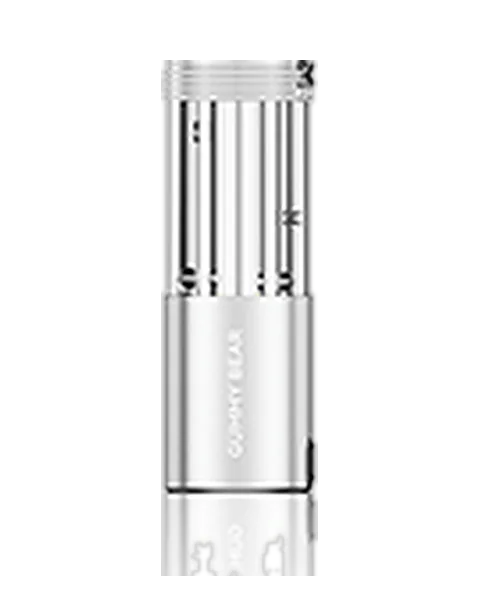
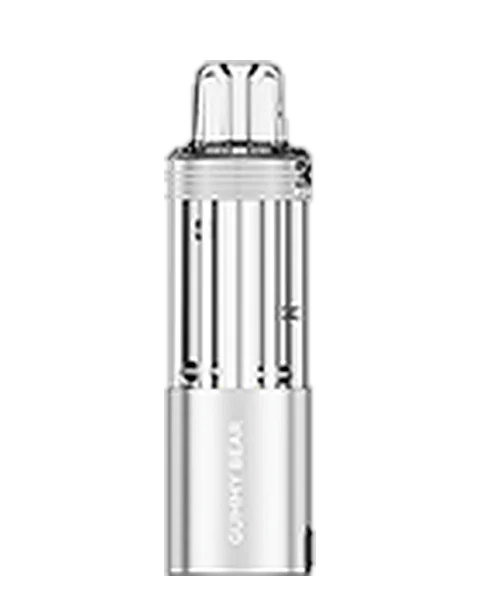
Spread sold-out Foger flavors through the shelf, fix Gummy Bear photo, real photos on menu tiles
- Sold-out flavors stay in their family with at least two in-stock flavors between them (with a test).
- Gummy Bear pod cutout keeps the clear mouthpiece.
- Vape menu tiles use real product photos; Foger Pods tile shows three real pods.
- Pages are served with no-cache so phones always load the newest site.

Claude-Session: https://claude.ai/code/session_01WZwz3KCcSpT4pd6DPVtWJA

Changed region(s): [[0.3125, 0.09, 0.6875, 0.96]]

diff --git a/src/data/fogerFlavors.ts b/src/data/fogerFlavors.ts
@@ -82,7 +82,11 @@ export const FOGER_FLAVORS: FogerFlavor[] = [
   { name: "Coconut Cupcake", slug: 'coconut-cupcake', status: 'out', hue: 214, saturation: 72 },
 ];
 
-/** Display order: flavors grouped by family, sold-out flavors kept inside their family. */
+/**
+ * Display order: flavors grouped by family. Sold-out flavors sit inside their family,
+ * spread out so at least two in-stock flavors are between any two sold-out ones.
+ * Sold-out flavors with no family of their own are tucked in near something similar.
+ */
 export const FOGER_ORDER: string[] = [
   // Mint
   'Cool Mint', 'Gum Mint', 'Miami Mint',
@@ -90,27 +94,23 @@ export const FOGER_ORDER: string[] = [
   'Sour Apple Ice', 'Juicy Peach Ice', 'Strawberry Ice', 'Watermelon Ice', 'Blue Razz Ice',
   // Fruit
   'Strawberry Kiwi', 'Strawberry Watermelon', 'Strawberry Banana', 'Strawberry Mango', 'Blueberry Watermelon', 'Raspberry Watermelon',
-  'Blackberry Blueberry', 'Berry Bliss', 'Lime Berry Orange', 'Mexico Mango', 'Blue Dragon', 'Dragon Melon', 'Kiwi Dragon Berry',
-  'Cherry Bomb', 'California Cherry', 'Pink & Blue', 'Watermelon Bubble Gum',
+  'Watermelon Cotton Candy', 'Blackberry Blueberry', 'Berry Bliss', 'Lime Berry Orange', 'Kiwi Dragon Berry', 'Mexico Mango',
+  'Blue Dragon', 'Dragon Melon', 'Cherry Bomb', 'California Cherry', 'Pink & Blue', 'Watermelon Bubble Gum',
   // Lemonade
-  'Lemon Heads', 'Dragon Fruit Lemonade', 'Pink Lemonade',
+  'Lemon Heads', 'White Gummy', 'Dragon Fruit Lemonade', 'Pink Lemonade',
   // Sour
   'Blue Sour Raspberry', 'Sour Blue Dust', 'Sour Fcuking Fab',
   // Candy
-  'Blue Rancher', 'OMG B-Burst', 'Strawberry B-Burst', 'Gummy Bear', 'White Gummy',
+  'Blue Rancher', 'Gummy Bear', 'OMG B-Burst', 'Strawberry B-Burst', 'Strawberry Cotton Candy', 'Blueberry Cotton Candy',
   // Punch
   'Sour Punch', 'Hawaiian Punch', 'Triple Berry Punch', 'Purple Passion Punch', 'Sour Raspberry Punch',
   // Frozen
-  'Frozen Watermelon', 'Frozen Pineapple', 'Frozen Blackberry', 'Frozen Blueberry', 'Frozen Banana', 'Frozen Lemon',
-  'Frozen Wildberry Mix', 'Frozen Summer Pear', 'Frozen Orange & Green', 'Frozen Strawberry Grapefruit',
+  'Frozen Watermelon', 'Frozen Pineapple', 'Frozen Blueberry', 'Frozen Blackberry', 'Frozen Wildberry Mix', 'Frozen Banana',
+  'Frozen Summer Pear', 'Frozen Orange & Green', 'Frozen Lemon', 'Frozen Strawberry Grapefruit',
   // Slush
-  'Strawberry Slush', 'Cherry Slush', 'Peach Slush', 'Cola Slush', 'Grape Slush', 'Orange Slush',
+  'Strawberry Slush', 'Cherry Slush', 'Peach Slush', 'Orange Slush', 'Cola Slush', 'Grape Slush',
+  // Dessert
+  'Strawnana Ice Cream', 'Coconut Cupcake', 'Vanilla Ice Cream', 'Chocolate Cupcake', 'Strawberry Cupcake',
   // Refresher
   'Red Mix Refresher', 'Orange Dream Refresher', 'Mango Pineapple Refresher', 'Blackberry Passion Refresher', 'Peach Berries Refresher',
-  // Cotton candy
-  'Blueberry Cotton Candy', 'Watermelon Cotton Candy', 'Strawberry Cotton Candy',
-  // Ice cream
-  'Strawnana Ice Cream', 'Vanilla Ice Cream',
-  // Cupcake
-  'Chocolate Cupcake', 'Strawberry Cupcake', 'Coconut Cupcake',
 ];

diff --git a/src/data/seed.ts b/src/data/seed.ts
@@ -150,12 +150,12 @@ export function createSeed(): DB {
       { id: 't-hydro', category: 'flower', label: 'Indoor Hydroponics', lineId: 'hydro', hue: 96, saturation: 55, intensity: 50 },
       { id: 't-aaa', category: 'flower', label: 'Indoor AAA', lineId: 'aaa', hue: 47, saturation: 92, intensity: 45 },
       { id: 't-greenhouse', category: 'flower', label: 'Greenhouse', lineId: 'greenhouse', hue: 174, saturation: 58, intensity: 40 },
-      { id: 't-foger-pods', category: 'vapes', label: 'Foger Pods', lineId: 'foger-pods', hue: 330, saturation: 72, intensity: 45 },
-      { id: 't-foger-battery', category: 'vapes', label: 'Foger Battery', lineId: 'foger-battery', hue: 0, saturation: 0, intensity: 50 },
-      { id: 't-x2-25', category: 'vapes', label: 'Pulse 2 25K', lineId: 'gb-x2-25', hue: 214, saturation: 72, intensity: 50 },
-      { id: 't-x2-50', category: 'vapes', label: 'Pulse X 2 50K', lineId: 'gb-x2-50', hue: 272, saturation: 55, intensity: 50 },
-      { id: 't-mate-kit', category: 'vapes', label: 'Mate Kit 60K', lineId: 'gb-mate-kit', hue: 2, saturation: 72, intensity: 45 },
-      { id: 't-mate-pod', category: 'vapes', label: 'Mate Pod 60K', lineId: 'gb-mate-pod', hue: 26, saturation: 88, intensity: 45 },
+      { id: 't-foger-pods', category: 'vapes', label: 'Foger Pods', lineId: 'foger-pods', hue: 330, saturation: 72, intensity: 45, photo: '/products/tiles/foger-pods.webp' },
+      { id: 't-foger-battery', category: 'vapes', label: 'Foger Battery', lineId: 'foger-battery', hue: 0, saturation: 0, intensity: 50, photo: photo('foger-battery') },
+      { id: 't-x2-25', category: 'vapes', label: 'Pulse 2 25K', lineId: 'gb-x2-25', hue: 214, saturation: 72, intensity: 50, photo: photo('geekbar/pulse2-dragon-melon') },
+      { id: 't-x2-50', category: 'vapes', label: 'Pulse X 2 50K', lineId: 'gb-x2-50', hue: 272, saturation: 55, intensity: 50, photo: photo('geekbar/x2-blue-razz-ice') },
+      { id: 't-mate-kit', category: 'vapes', label: 'Mate Kit 60K', lineId: 'gb-mate-kit', hue: 2, saturation: 72, intensity: 45, photo: photo('geekbar/mate-kit-triple-berry') },
+      { id: 't-mate-pod', category: 'vapes', label: 'Mate Pod 60K', lineId: 'gb-mate-pod', hue: 26, saturation: 88, intensity: 45, photo: photo('geekbar/mate-pod-cool-mint') },
     ],
     settings: {
       taxRate: 8.25,

diff --git a/src/data/fogerFlavors.test.ts b/src/data/fogerFlavors.test.ts
@@ -1,0 +1,15 @@
+import { describe, expect, it } from 'vitest';
+import { FOGER_FLAVORS, FOGER_ORDER } from './fogerFlavors';
+
+describe('Foger shelf order', () => {
+  it('lists every flavor exactly once', () => {
+    expect([...FOGER_ORDER].sort()).toEqual(FOGER_FLAVORS.map((f) => f.name).sort());
+  });
+
+  it('keeps sold-out flavors spread out, never bunched at the top', () => {
+    const out = new Set(FOGER_FLAVORS.filter((f) => f.status === 'out').map((f) => f.name));
+    const spots = FOGER_ORDER.flatMap((name, i) => (out.has(name) ? [i] : []));
+    expect(spots[0]).toBeGreaterThanOrEqual(8);
+    for (let i = 1; i < spots.length; i++) expect(spots[i] - spots[i - 1]).toBeGreaterThanOrEqual(3);
+  });
+});
